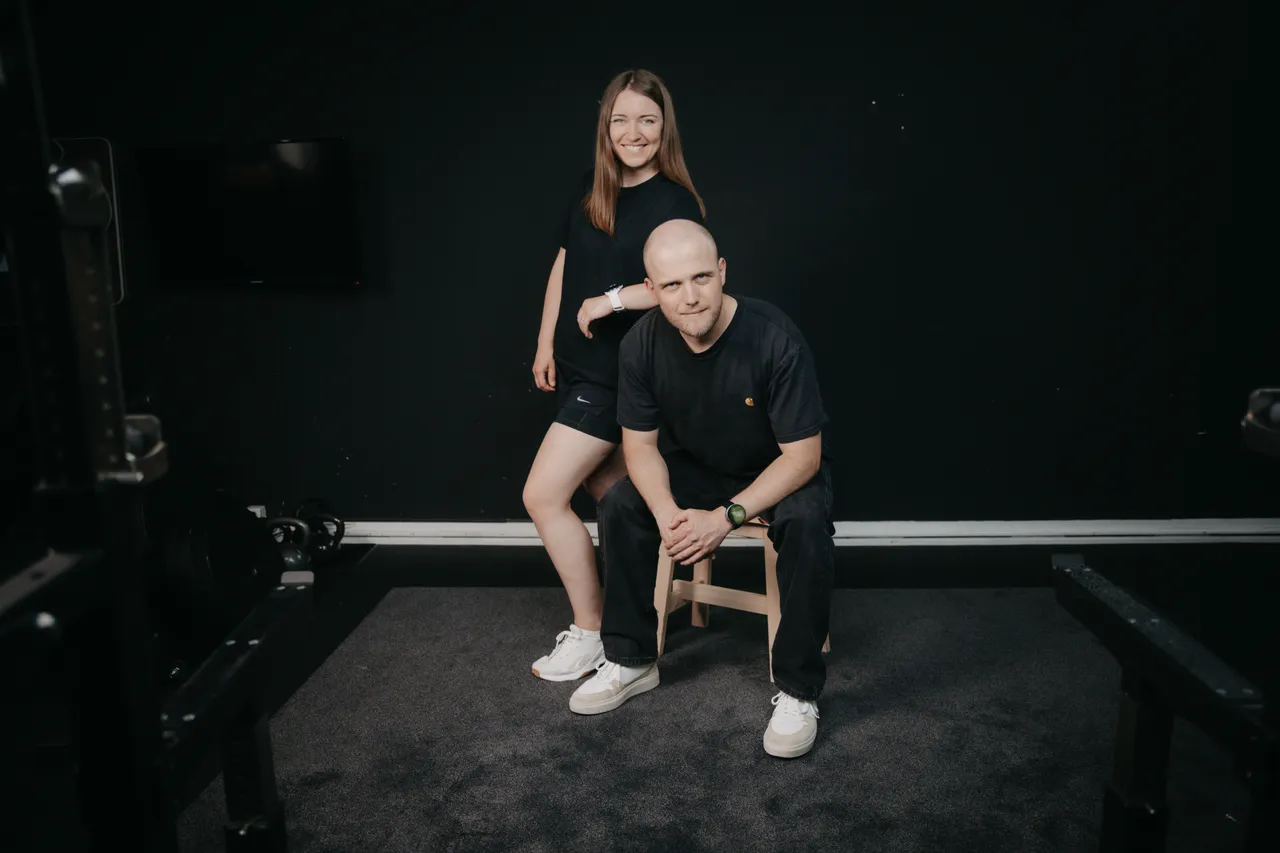
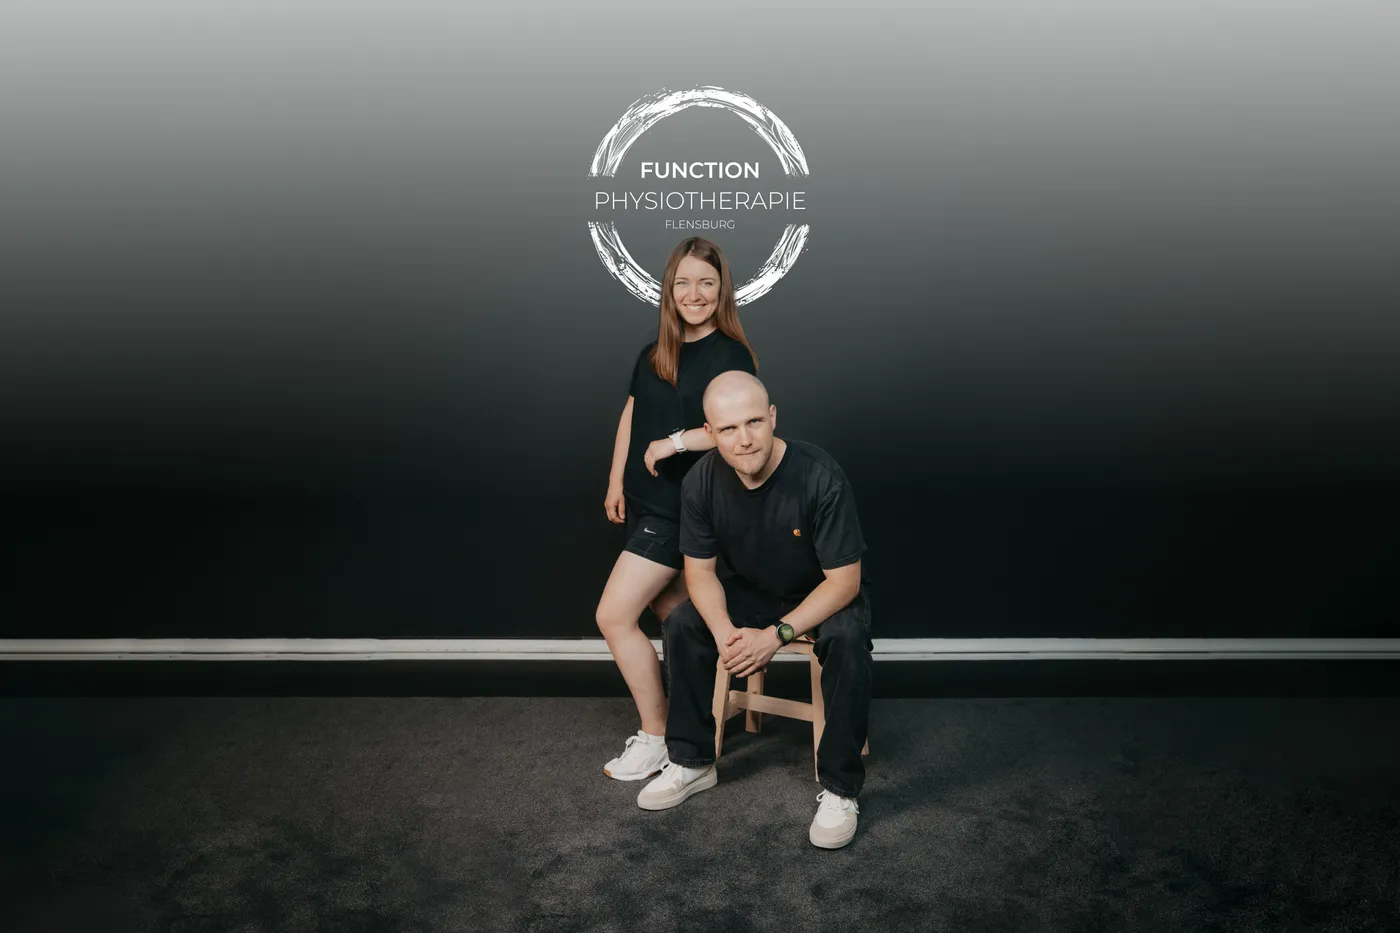
Add optimized hero images + switch to CSS background
- optimize-hero.mjs: source-images/hero.jpg (27.4 MB) → hero-desktop.webp
  (2560px, 227 KB) + hero-mobile.webp (1400px, 68 KB); metadata stripped
- Hero section: replace <picture>/<img> with CSS background-image on
  .hero-new; responsive via @user (max-width: 768px)
- --hero-focus CSS variable (default: center center) controls focal point
- Overlay updated to linear-gradient rgba(20,40,48, .45→.65)
- Preload links in <head> updated to hero-desktop.webp / hero-mobile.webp

diff --git a/style.css b/style.css
@@ -262,32 +262,32 @@ nav.nav-hero .nav-cta:hover { background: rgba(255,255,255,0.25); }
 }
 
 /* ── HERO NEW (full-bleed cinematic) ── */
+/* Focal point: adjust --hero-focus to keep subject visible,
+   e.g. "center 30%" to show upper area, "40% center" to pan left. */
 .hero-new {
   position: relative;
   height: 100dvh;
   min-height: 600px;
   overflow: hidden;
   isolation: isolate;
+  background-image: url('images/hero-desktop.webp');
+  background-size: cover;
+  background-repeat: no-repeat;
+  background-position: var(--hero-focus, center center);
 }
 
-.hero-bg-img {
-  position: absolute;
-  inset: 0;
-  width: 100%;
-  height: 100%;
-  object-fit: cover;
-  display: block;
-  filter: grayscale(22%);
-  z-index: 0;
+@media (max-width: 768px) {
+  .hero-new {
+    background-image: url('images/hero-mobile.webp');
+  }
 }
 
 .hero-bg-overlay {
   position: absolute;
   inset: 0;
-  background: linear-gradient(180deg,
-    rgba(237, 232, 226, 0.42) 0%,
-    rgba(44, 83, 100, 0.35)   45%,
-    rgba(26, 53, 64, 0.88)    100%
+  background: linear-gradient(to bottom,
+    rgba(20, 40, 48, 0.45) 0%,
+    rgba(20, 40, 48, 0.65) 100%
   );
   z-index: 1;
 }

diff --git a/index.html b/index.html
@@ -10,7 +10,7 @@
   <link href="https://fonts.googleapis.com/css2?family=Cormorant+Garamond:ital,wght@0,300;0,400;0,500;0,600;1,300;1,400;1,500&family=Inter:wght@300;400;500;600&display=swap" rel="stylesheet">
   <link rel="stylesheet" href="style.css">
   <link rel="preload" as="image" href="images/hero-mobile.webp" media="(max-width: 768px)">
-  <link rel="preload" as="image" href="images/hero.webp" media="(min-width: 769px)">
+  <link rel="preload" as="image" href="images/hero-desktop.webp" media="(min-width: 769px)">
   <link rel="icon" type="image/png" sizes="32x32" href="images/favicon-32.png">
   <link rel="apple-touch-icon" sizes="180x180" href="images/apple-touch-icon.png">
 </head>
@@ -71,11 +71,6 @@
 
   <!-- ── HERO ── -->
   <section class="hero-new">
-    <picture>
-      <source media="(max-width: 768px)" srcset="images/hero-mobile.webp" type="image/webp">
-      <source media="(min-width: 769px)" srcset="images/hero.webp" type="image/webp">
-      <img class="hero-bg-img" src="images/hero.webp" alt="Function Physiotherapie Team" loading="eager" fetchpriority="high">
-    </picture>
     <div class="hero-bg-overlay"></div>
 
 <div class="hero-scroll-hint" aria-hidden="true">